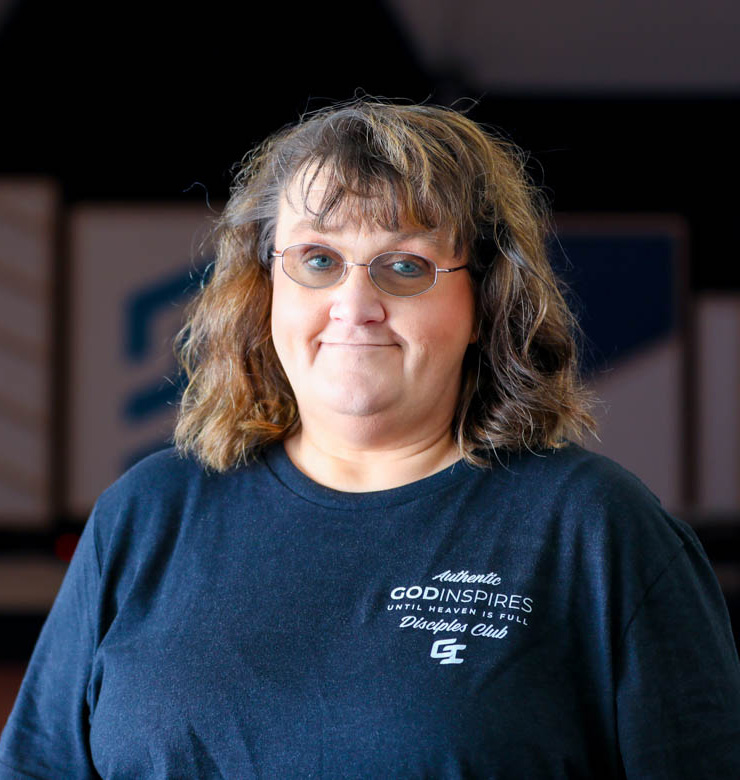
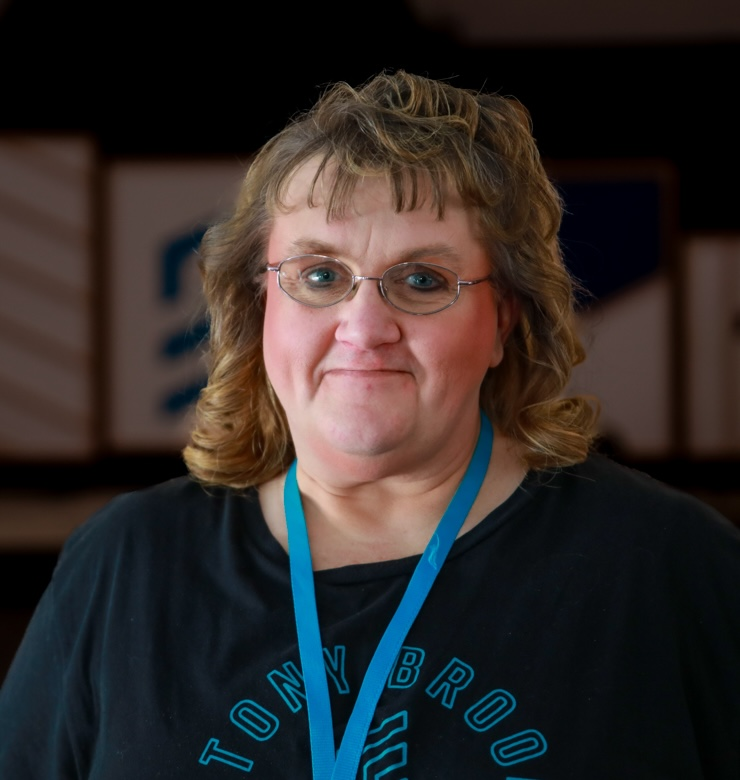
Staff updates

diff --git a/src/content/staff/jon-annin.md b/src/content/staff/jon-annin.md
@@ -1,6 +1,6 @@
 ---
 name: Jon Annin
-description: Pastor
+description: Senior Pastor
 image: /assets/uploads/hero/sermon-1.jpg
 ---
 